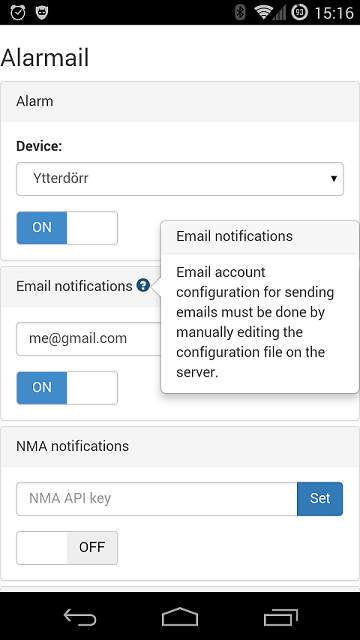
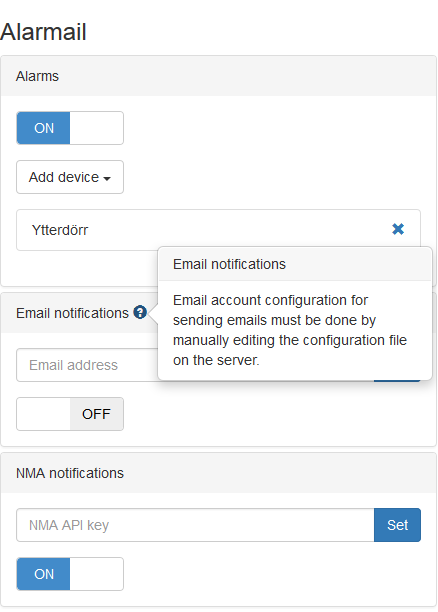
Added support for alarms for multiple devices.

diff --git a/server.js b/server.js
@@ -15,7 +15,7 @@ app.use(bodyParser.json());
 // Default configuration values
 var DEFAULT_PORT = 9001;
 var DEFAULT_ALARM_ENABLED = false;
-var DEFAULT_ALARM_DEVICE_ID = -1;
+var DEFAULT_ALARM_DEVICES = [];
 var DEFAULT_NMA_API_KEY = "";
 var DEFAULT_NMA_ENABLED = false;
 var DEFAULT_EMAIL_NOTIFICATION_ENABLED = false;
@@ -33,7 +33,7 @@ var PORT = (process.env.PORT || opts.port || DEFAULT_PORT);
 var APP_NAME = "Alarmail";
 
 var alarmEnabled = opts.alarmEnabled || DEFAULT_ALARM_ENABLED;
-var alarmDeviceID = opts.alarmDeviceID || DEFAULT_ALARM_DEVICE_ID;
+var alarmDevices = opts.alarmDevices || DEFAULT_ALARM_DEVICES;
 var nmaEnabled = opts.nmaEnabled || DEFAULT_NMA_ENABLED;
 var nmaApiKey = opts.nmaApiKey || DEFAULT_NMA_API_KEY;
 var emailNotificationEnabled = opts.emailNotificationEnabled || DEFAULT_EMAIL_NOTIFICATION_ENABLED;
@@ -47,7 +47,7 @@ function generateConfigurationData() {
     return {
         "port": PORT,
         "alarmEnabled": alarmEnabled,
-        "alarmDeviceID": alarmDeviceID,
+        "alarmDevices": alarmDevices,
         "nmaEnabled": nmaEnabled,
         "nmaApiKey": nmaApiKey,
         "emailNotificationEnabled": emailNotificationEnabled,
@@ -178,8 +178,7 @@ function serializeDevices(devices) {
 function serializeDevice(device) {
     return {
         id:   device.id,
-        name: device.name,
-        alarmEnabled: isAlarmEnabled(device)
+        name: device.name
     };
 }
 
@@ -201,8 +200,13 @@ function setAlarmStatus(enabled) {
     alarmEnabled = enabled;
 }
 
-function isAlarmEnabled(device) {
-    return (device.id == alarmDeviceID);
+function isAlarmEnabled(deviceId) {
+    for (var i = 0; i < alarmDevices.length; i++) {
+        if (alarmDevices[i].deviceId == deviceId) {
+            return true;
+        }
+    }
+    return false;
 }
 
 function sendAlarm(device) {
@@ -218,31 +222,54 @@ function sendAlarm(device) {
 }
 
 function checkAlarm(deviceId) {
-    if (deviceId == alarmDeviceID) {
-        getDevice(alarmDeviceID, function (error, device) {
+    if (isAlarmEnabled(deviceId)) {
+        getDevice(deviceId, function (error, device) {
             if (error) {
-                log.error("Could not find Alarm device", error);
+                log.error("Could not find Alarm device with ID " + deviceId, error);
             } else if (device) {
                 if (isOn(device)) {
-                    log.info("Alarm device turned on.");
+                    log.info("Alarm device with ID " + deviceId + " turned on.");
                     if (isAlarmedSuppressedByScript()) {
                         log.info("Alarm suppressed by script " + suppressScript + ".");
                     } else {
                         sendAlarm(device);
                     }
                 } else {
-                    log.info("Alarm device turned off.");
+                    log.info("Alarm device with ID " + deviceId + " turned off.");
                 }
             } else {
-                log.error("Could not find Alarm device, weird.");
+                log.error("Could not find Alarm device with ID " + deviceId + ", weird.");
             }
         });
     }
 }
 
-function setAlarmDevice(device) {
-    log.info("Setting Alarm Device ID to: " + device.id)
-    alarmDeviceID = device.id;
+function getAlarmDevices() {
+    return alarmDevices;
+}
+
+function getAlarmDevice(deviceId) {
+    for (var i = 0; i < alarmDevices.length; i++) {
+        if (alarmDevices[i].deviceId == deviceId) {
+            return alarmDevices[i];
+        }
+    }
+    return null;
+}
+
+function addAlarmDevice(deviceId) {
+    log.info("Adding alarm for device with ID: " + deviceId)
+    alarmDevices.push({ "deviceId": deviceId });
+}
+
+function deleteAlarmDevice(deviceId) {
+    log.info("Deleting alarm for device with ID: " + deviceId)
+    for (var i = 0; i < alarmDevices.length; i++) {
+        if (alarmDevices[i].deviceId == deviceId) {
+            return alarmDevices.splice(i, 1);
+        }
+    }
+    return null;
 }
 
 function isNmaEnabled() {
@@ -372,6 +399,29 @@ app.route('/alarm/email/enabled')
         res.sendStatus(200);
     });
 
+app.get('/alarm/devices/', function(req, res) {
+    res.send(getAlarmDevices());
+});
+
+app.route('/alarm/devices/:device/')
+    .get(function(req, res) {
+        var deviceId = parseDeviceId(req.params.device);
+        res.json(getAlarmDevice(deviceId));
+    })
+    .put(function(req, res) {
+        var deviceId = parseDeviceId(req.params.device);
+        addAlarmDevice(deviceId);
+        res.send(200);
+    })
+    .delete(function(req, res) {
+        var deviceId = parseDeviceId(req.params.device);
+        if (deleteAlarmDevice(deviceId)) {
+            res.sendStatus(200);
+        } else {
+            res.sendStatus(500);
+        }
+    });
+
 app.put('/configuration/', function(req, res) {
     saveConfigurationToFile(function (error, device) {
         if (error) {
@@ -406,43 +456,6 @@ app.get('/devices/:device/', function(req, res) {
         }
     });
 });
-
-/* TODO: Remove alarm route when supporting multiple devices and set
- *       alarmEnabled as property on devices instead using PUT */
-app.route('/devices/:device/alarm/')
-    .get(function(req, res) {
-        var deviceId = parseDeviceId(req.params.device);
-        getDevice(deviceId, function (error, device) {
-            if (error) {
-                log.error("Could not find device to get alarm: " + error);
-                res.sendStatus(500);
-            } else if (device) {
-                res.send({
-                    "enabled" : isAlarmEnabled(device)
-                });
-            } else {
-                res.sendStatus(404);
-            }
-        });
-    })
-    .put(function(req, res) {
-        if (req.body.enabled == true) {
-            var deviceId = parseDeviceId(req.params.device);
-            getDevice(deviceId, function (error, device) {
-                if (error) {
-                    log.error("Could not find device to set alarm: " + error);
-                    res.sendStatus(500);
-                } else if (device) {
-                    setAlarmDevice(device);
-                    res.sendStatus(200);
-                } else {
-                    res.sendStatus(404);
-                }
-            });
-        } else {
-            res.sendStatus(200);
-        }
-    });
 
 // Serve static files from public/
 app.use(express.static(__dirname + '/public'));

diff --git a/js/controllers.js b/js/controllers.js
@@ -8,13 +8,6 @@ alarmail.controller('AlarmController', ['$scope', '$http',
 
     $http.get('devices/').success(function(data) {
       $scope.devices = data;
-
-      for (var i = 0; i < $scope.devices.length; i++) {
-        if ($scope.devices[i].alarmEnabled) {
-          $scope.selectedDevice = $scope.devices[i];
-          break;
-        }
-      }
     });
 
     $http.get('alarm/').success(function(data) {
@@ -22,18 +15,52 @@ alarmail.controller('AlarmController', ['$scope', '$http',
       $scope.alarmEnabled = data.enabled;
     });
 
-    $http.get('alarm/nma/').success(function(data) {
-      $scope.nmaEnabled = data.enabled;
-      $scope.nmaApiKey = data.apiKey;
-    });
+    $scope.getAlarmDevices = function() {
+      $http.get('alarm/devices').success(function(data) {
+        $scope.alarmDevices = data;
+      });
+    };
+
+    $scope.getAlarmDevices();
 
     $http.get('alarm/email/').success(function(data) {
       $scope.emailNotificationEnabled = data.enabled;
       $scope.emailNotificationAddress = data.emailNotificationAddress;
     });
 
-    $scope.setAlarmDevice = function() {
-      $http.put('devices/' + $scope.selectedDevice.id + "/alarm/", { 'enabled': true });
+    $http.get('alarm/nma/').success(function(data) {
+      $scope.nmaEnabled = data.enabled;
+      $scope.nmaApiKey = data.apiKey;
+    });
+
+    $scope.addAlarmDevice = function(deviceId) {
+      $http.put('alarm/devices/' + deviceId, { 'deviceId': deviceId }
+      ).then(function successCallback(response) {
+          $scope.getAlarmDevices();
+        }, function errorCallback(response) {
+          // TODO: Handle error
+        });
+    };
+
+    $scope.deleteAlarmDevice = function(deviceId) {
+      $http.delete('alarm/devices/' + deviceId
+      ).then(function successCallback(response) {
+          $scope.getAlarmDevices();
+        }, function errorCallback(response) {
+          // TODO: Handle error
+        });
+    };
+
+    $scope.isAlarmDevice = function(deviceId) {
+      if ($scope.alarmDevices === undefined) {
+        return false;
+      }
+      for (var i = 0; i < $scope.alarmDevices.length; i++) {
+        if ($scope.alarmDevices[i].deviceId == deviceId) {
+          return true;
+        }
+      }
+      return false;
     };
 
     $scope.setAlarm = function () {

diff --git a/static/index.html b/static/index.html
@@ -14,14 +14,36 @@
     <div class="panel-group">
 
       <div class="panel panel-default">
-        <div class="panel-heading">Alarm</div>
+        <div class="panel-heading">Alarms</div>
         <div class="panel-body">
-          <div class="form-group">
-            <label for="deviceList">Device:</label>
-            <select class="form-control" ng-options="device.name for device in devices track by device.id" ng-model="selectedDevice" ng-change="setAlarmDevice()" id="deviceList">
-            </select>
+          <div class="row row-grid">
+            <div class="col-md-2">
+              <input bs-switch type="checkbox" ng-model="alarmEnabled" ng-change="setAlarm()">
+            </div>
+            <div class="col-md-2">
+              <div class="dropdown">
+                <button class="btn btn-default dropdown-toggle" type="button" id="deviceDropdown" data-toggle="dropdown" aria-haspopup="true" aria-expanded="false">
+                  Add device
+                  <span class="caret"></span>
+                </button>
+                <ul class="dropdown-menu" aria-labelledby="deviceDropdown">
+                  <li ng-repeat="device in devices" ng-if="!isAlarmDevice(device.id)">
+                    <a ng-click="addAlarmDevice(device.id)">{{device.name}}</a>
+                  </li>
+                </ul>
+              </div>
+            </div>
+            <div class="col-md-2">
+                <ul class="list-group">
+                  <li class="list-group-item" ng-repeat="device in devices" ng-if="isAlarmDevice(device.id)">
+                   {{device.name}}
+                   <a class="pull-right" href="" ng-click="deleteAlarmDevice(device.id)">
+                     <span class="glyphicon glyphicon-remove"></span>
+                   </a>
+                </li>
+              </ul>
+            </div>
           </div>
-          <input bs-switch type="checkbox" ng-model="alarmEnabled" ng-change="setAlarm()">
         </div>
       </div>
 
